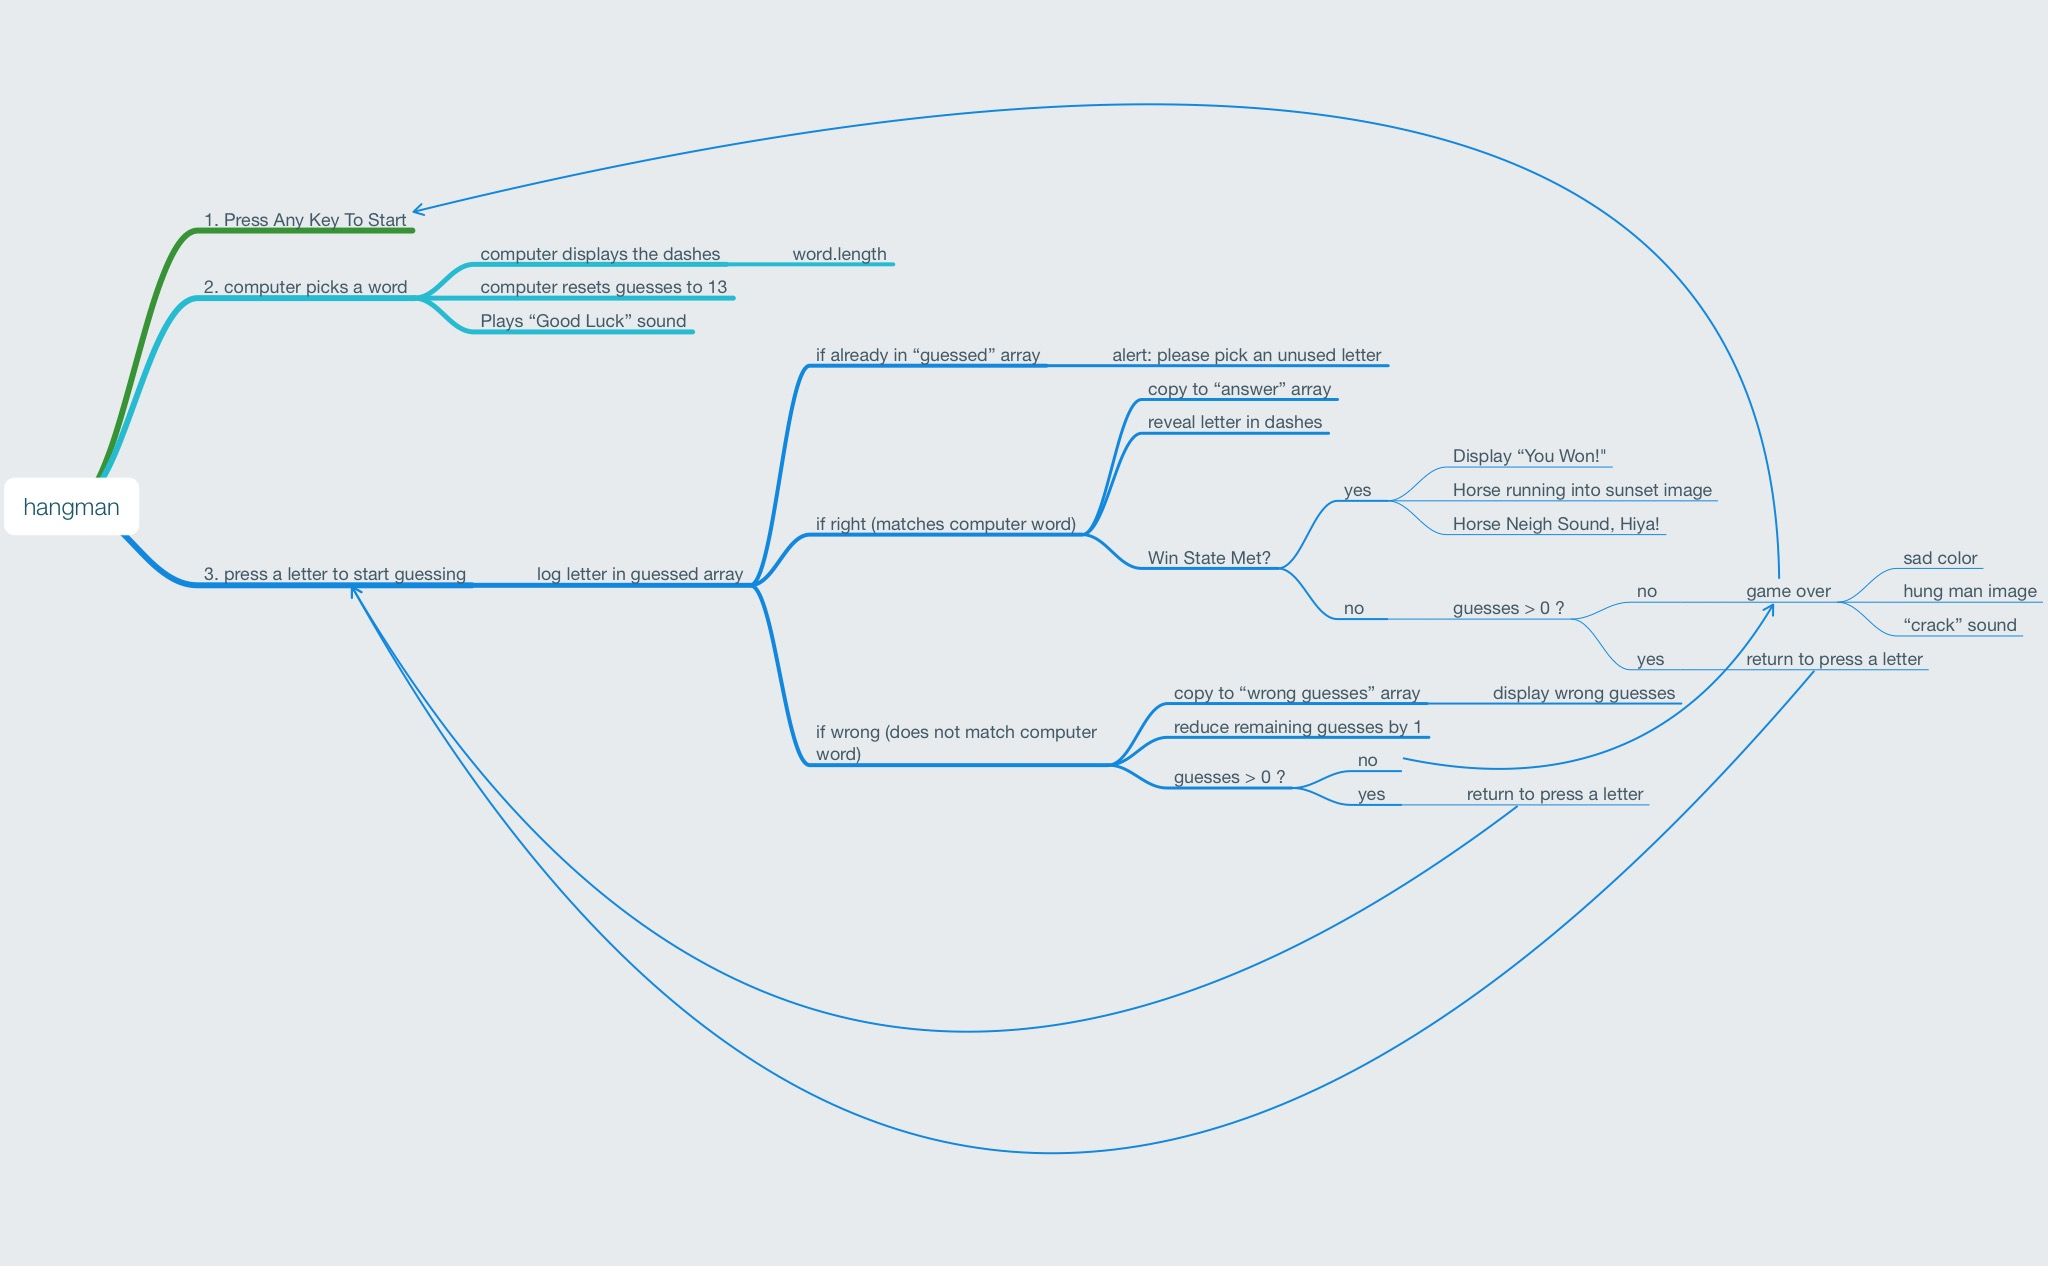
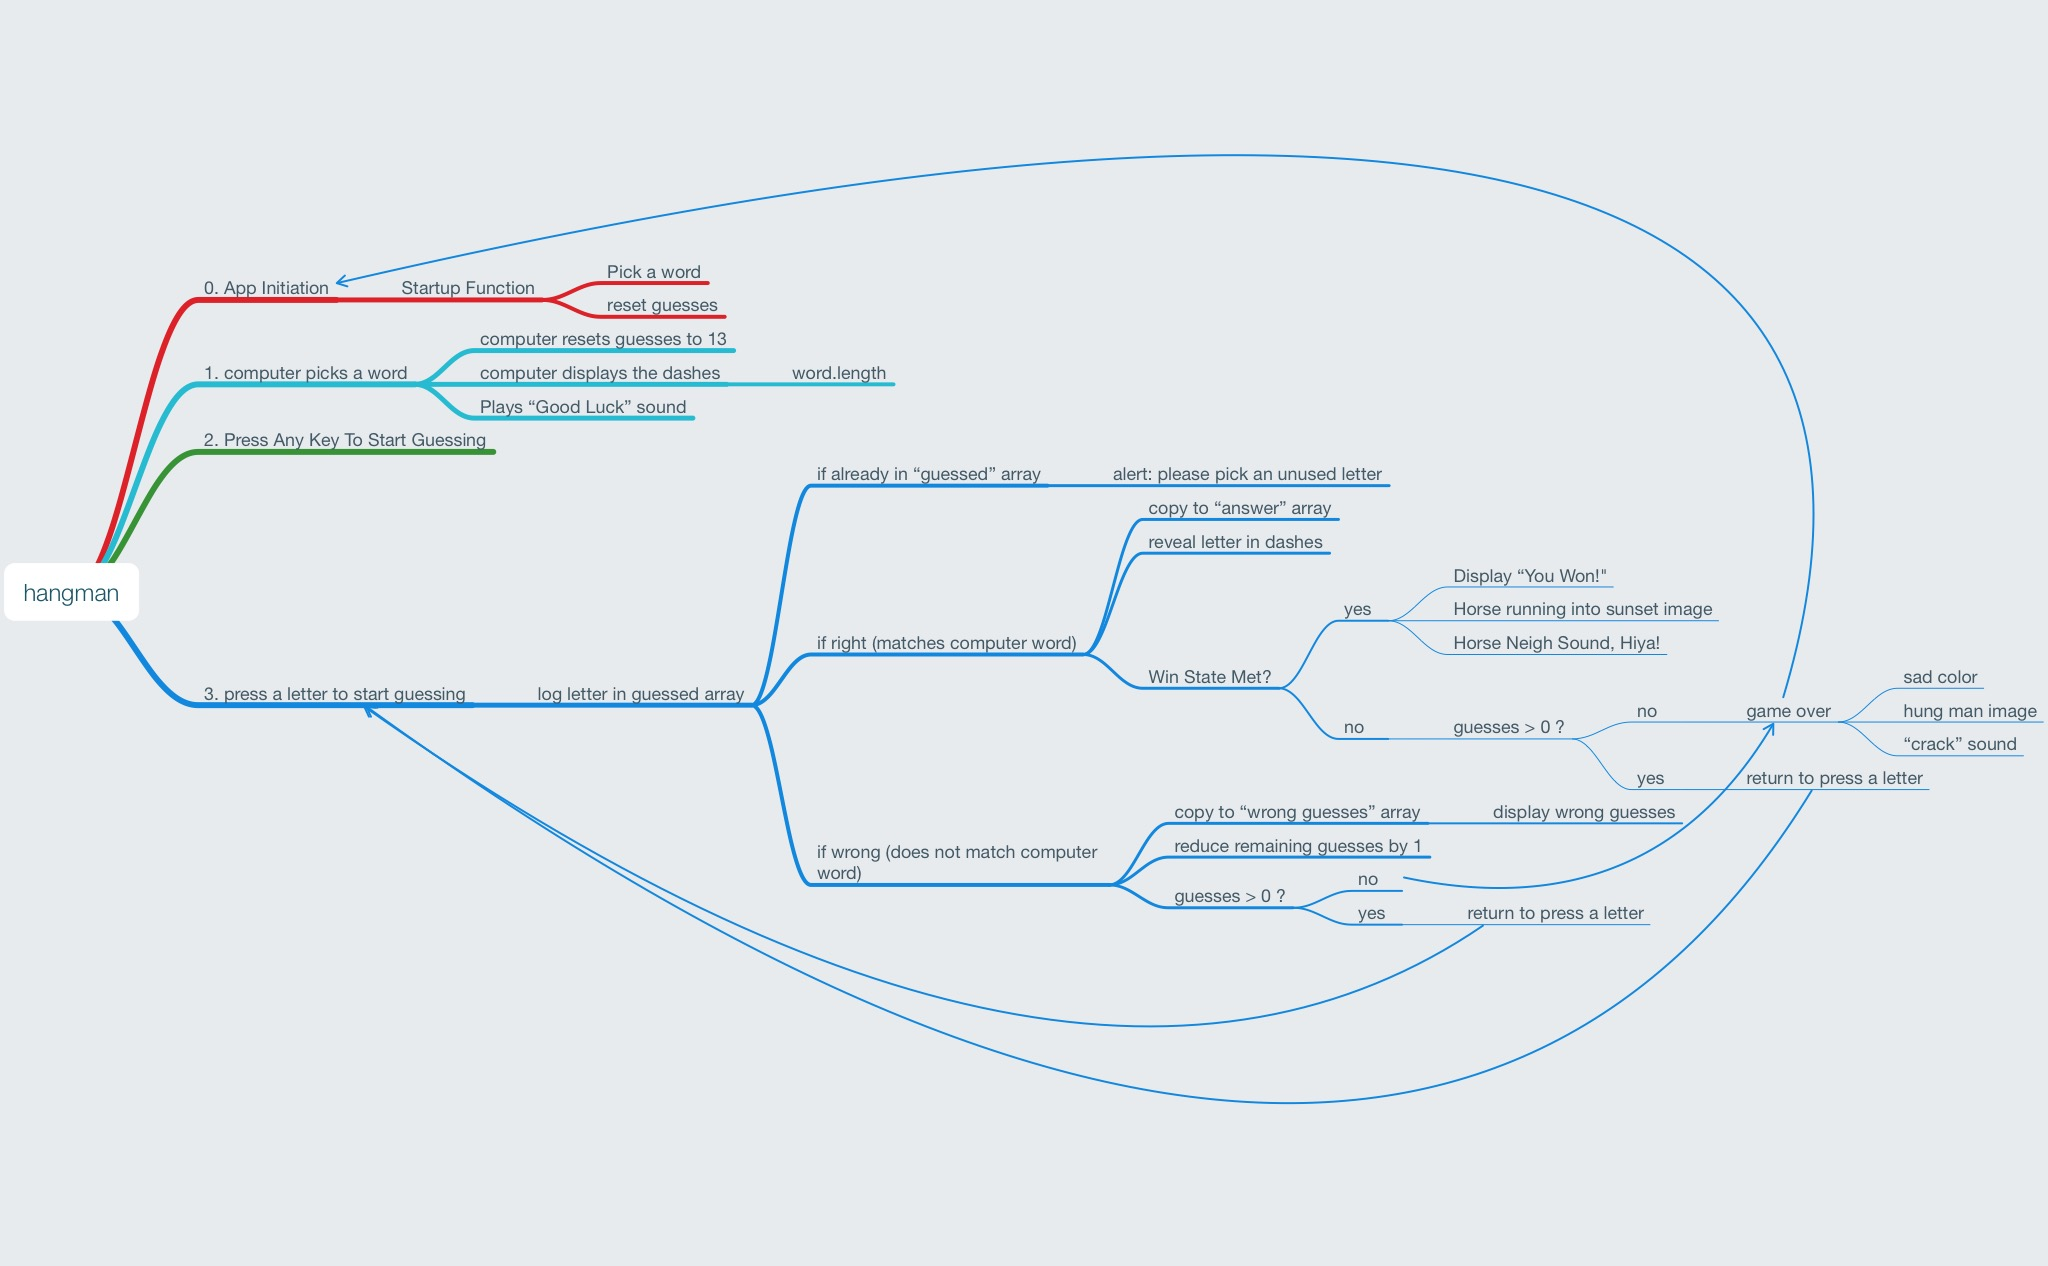
got initial document.writes working

diff --git a/assets/javascript/game.js b/assets/javascript/game.js
@@ -1,32 +1,54 @@
-var wordBank = ["amigos", "cactus", "eastwood", "gunfight", "locomotive", "mesas", "noose", "poker", "ranch", "saloon", "stagecoach", "tombstone", "wanted", "westworld"];
+// Pick the word, determine the length, store gu
 
-console.log("There are " + wordBank.length + " words in the bank.");
+var secretWord = "xyz";
+var secretWordLength = secretWord.length;
+var userGuesseses = [];
+var userSuccesses = [];
+var userSolution = [];
+var guessesRemaining = 0;
 
-var computerGuess = wordBank[Math.floor(Math.random() * wordBank.length)];
 
-console.log("The computer word is " + computerGuess);
+var htmlGuessesRemaining = document.getElementById('guessesRemaining');
+
+console.log("Initial Declaration of GuessesRemaining (should be Zero): " + guessesRemaining);
+
+function appSetup() {
+	var wordBank = ["amigos", "cactus", "eastwood", "gunfight", "locomotive", "mesas", "noose", "poker", "ranch", "saloon", "stagecoach", "tombstone", "wanted", "westworld"];
+	console.log("There are " + wordBank.length + " words in the bank.");
+	secretWord = wordBank[Math.floor(Math.random() * wordBank.length)];
+	secretWordLength = secretWord.length;
+	guessesRemaining = 13
+	console.log("Reset of GuessesRemaining (should be 13): " + guessesRemaining);	
+}
+
+function appStart() {
+	console.log("The secret word is " + secretWord);
+	console.log("The secret word is " + secretWordLength + " letters long.")
+	console.log("Let's Get Started! Push a key to start guessing.");
+}
+
+appSetup();
+appStart();
 
 // main function
 document.onkeyup = function(event) {
 	// capture the user guess
-	var userGuess = event.key;
-
-	var guessesRemaining = 11;
-
-	if (guessesRemaining > 0) {
-
-		console.log(userGuess);	
-
-		guessesRemaining = (guessesRemaining - 1);
-
-		var userSolution = [];
-
-		console.log("Guesses Remaining: " + guessesRemaining);
-
-		userSolution.push(userGuess);
-
+	var userGuesses = event.key;
+	// while you have guesses remaining
+	if (guessesRemaining > 1) {
+		userSolution.push(userGuesses);
 		console.log(userSolution);
-
+		console.log(userGuesses);
+		guessesRemaining = (guessesRemaining - 1);
+		console.log("Guesses Remaining: " + guessesRemaining);
+		htmlGuessesRemaining.innerHTML = guessesRemaining;
+		console.log("htmlGuessesRemaining: " + htmlGuessesRemaining)
 		}
 
+	else if (guessesRemaining === 1) {
+		console.log("You Lose!");
+		appSetup();
+		appStart();
 	}
+
+}

diff --git a/index.html b/index.html
@@ -10,15 +10,18 @@
 
 	<h1>Welcome to Hangman</h1>
 
+	<hr>
+
 	<h2>Press Any Key To Get Started!</h2>
 
-	<h2>Wins:</h2>
+	<h2 id="wins">Wins:</h2>
 
-	<h2>Word Choice:</h2>
+	<h2 id="secretWord">Secret Word:</h2>
 
 	<h2>Guesses Remaining:</h2>
+	<h2 id="guessesRemaining"></h2>
 
-	<h2>Guessed Letters:</h2>
+	<h2 id="userGuesses">Guessed Letters:</h2>
 
 	<script src="assets/javascript/game.js"></script>
 </body>

diff --git a/assets/javascript/stub.html b/assets/javascript/stub.html
@@ -1,0 +1,17 @@
+<!DOCTYPE html>
+<html>
+<head>
+	<title>scriptStubs</title>
+</head>
+<body>
+
+<script type="text/javascript">
+
+htmlPage = "<h1> OH NO! </h1>"
+
+document.write(htmlPage);
+
+</script>
+
+</body>
+</html>
